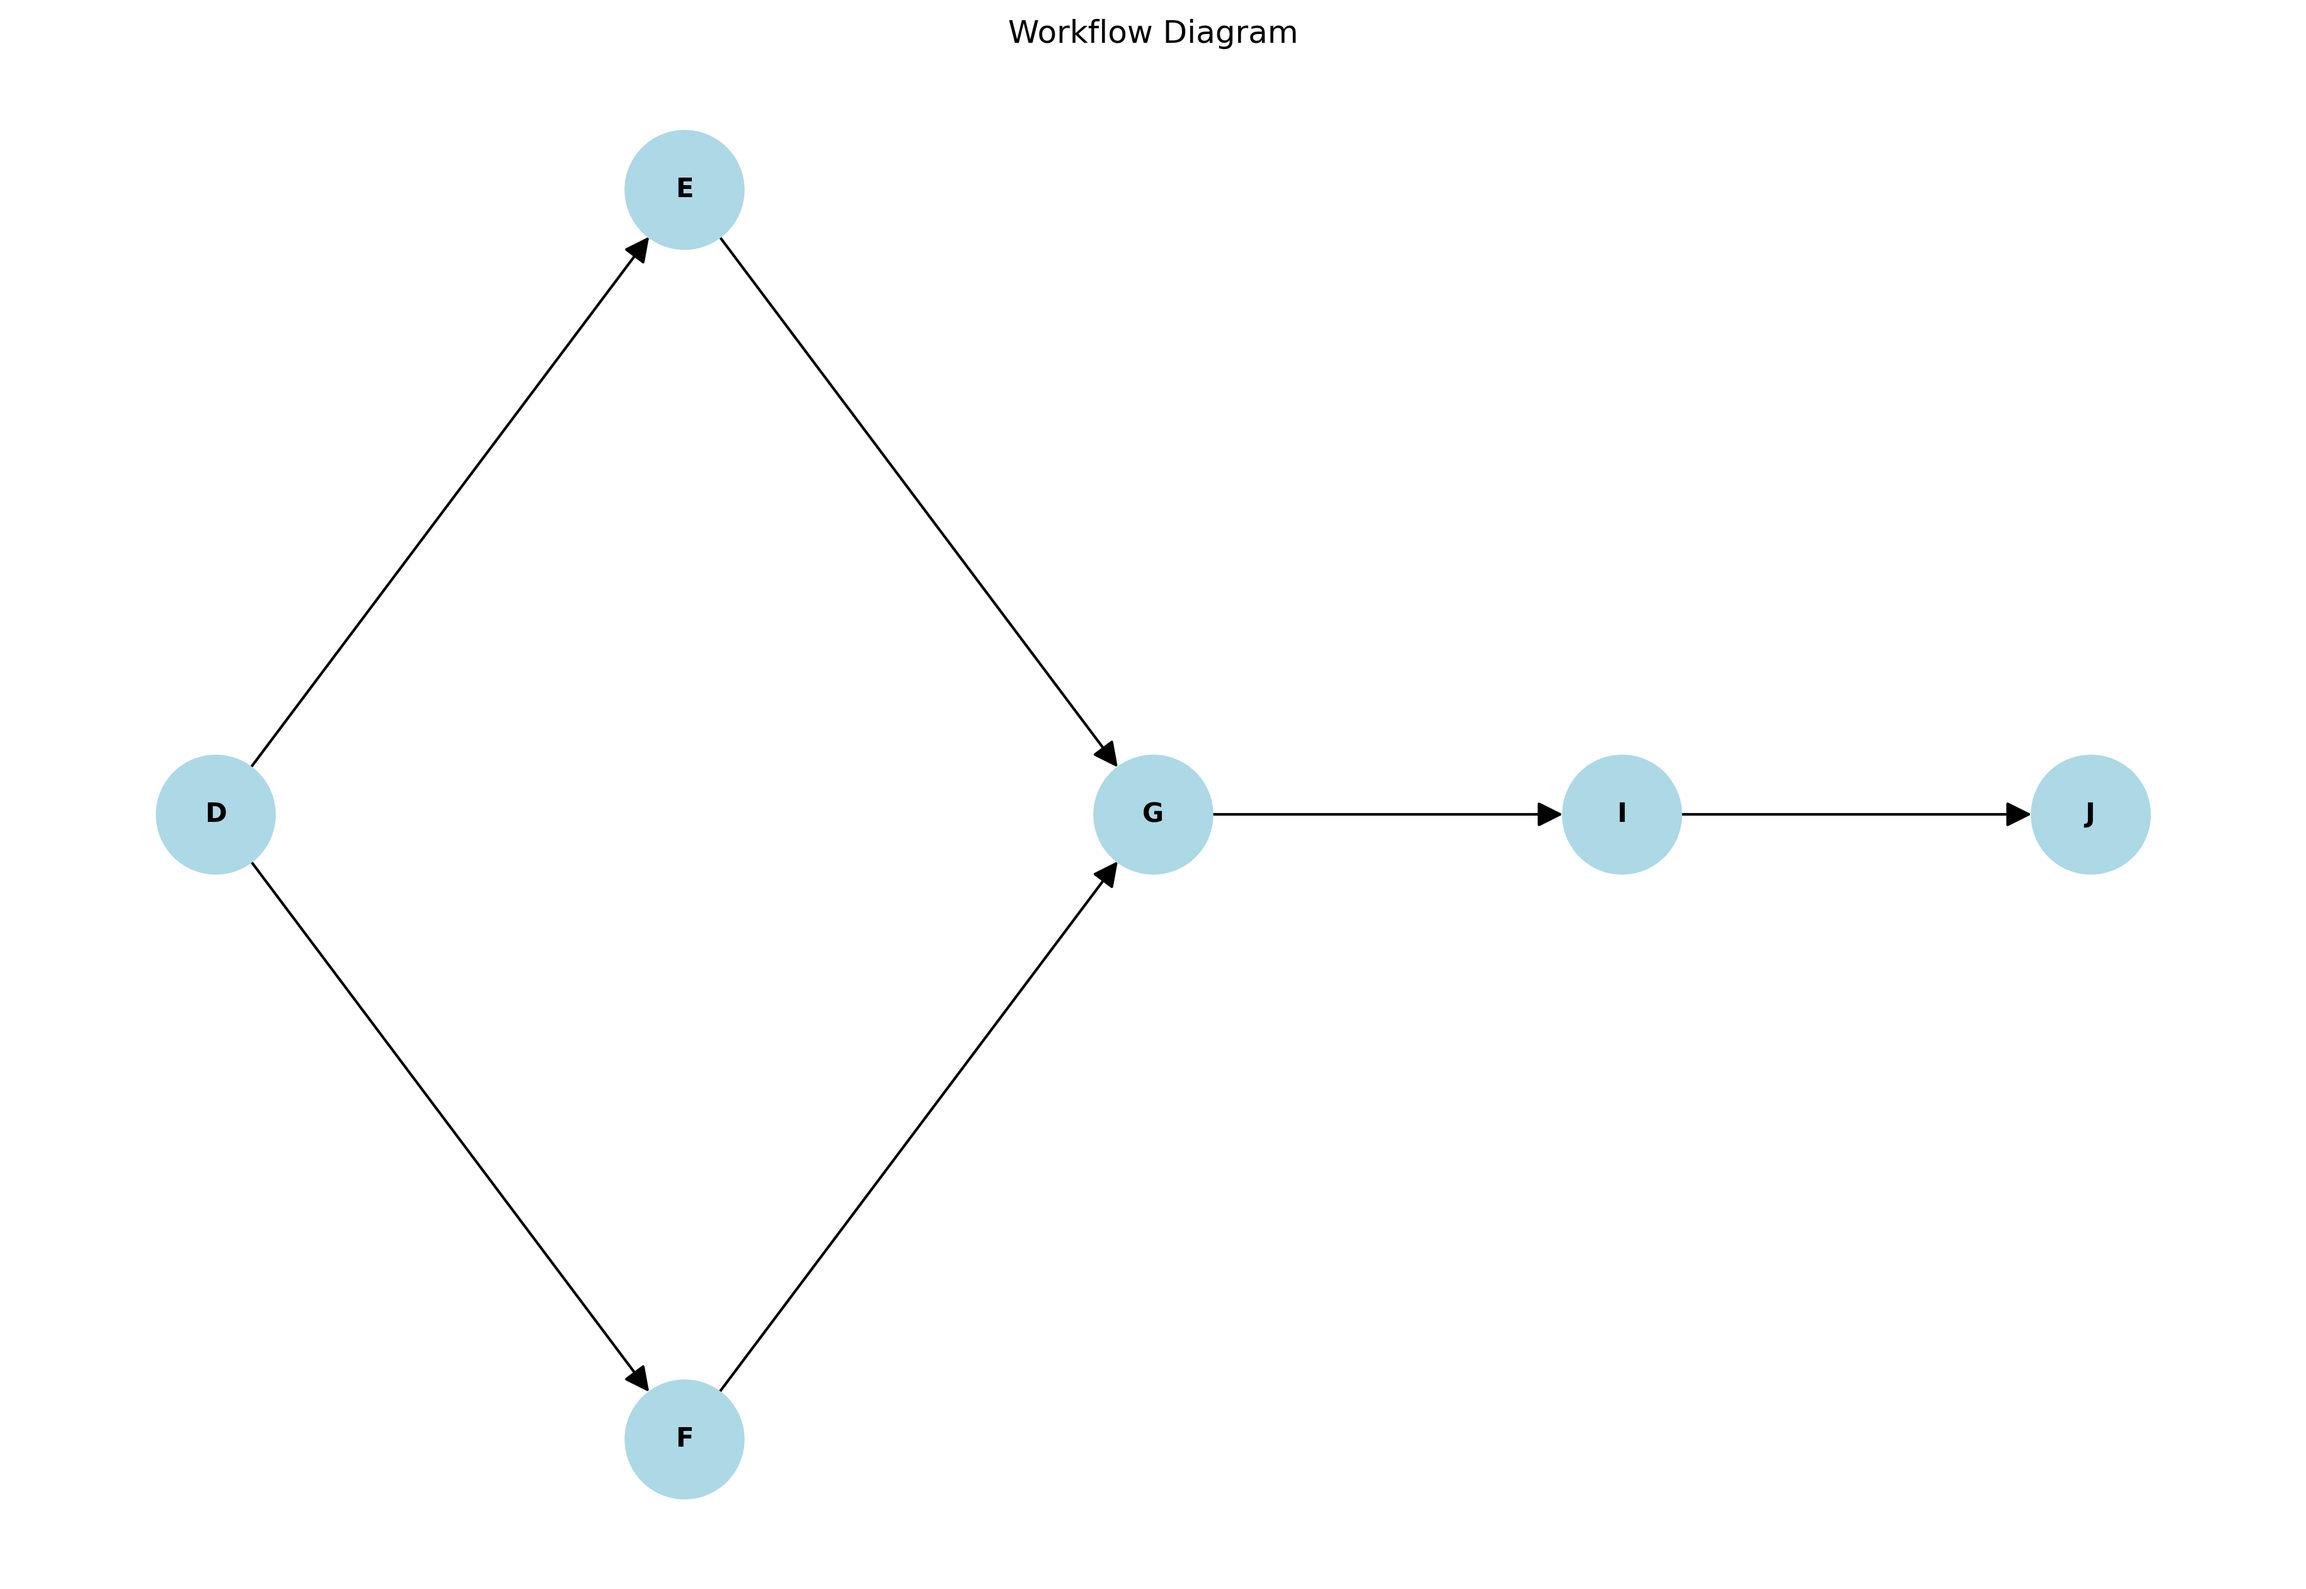
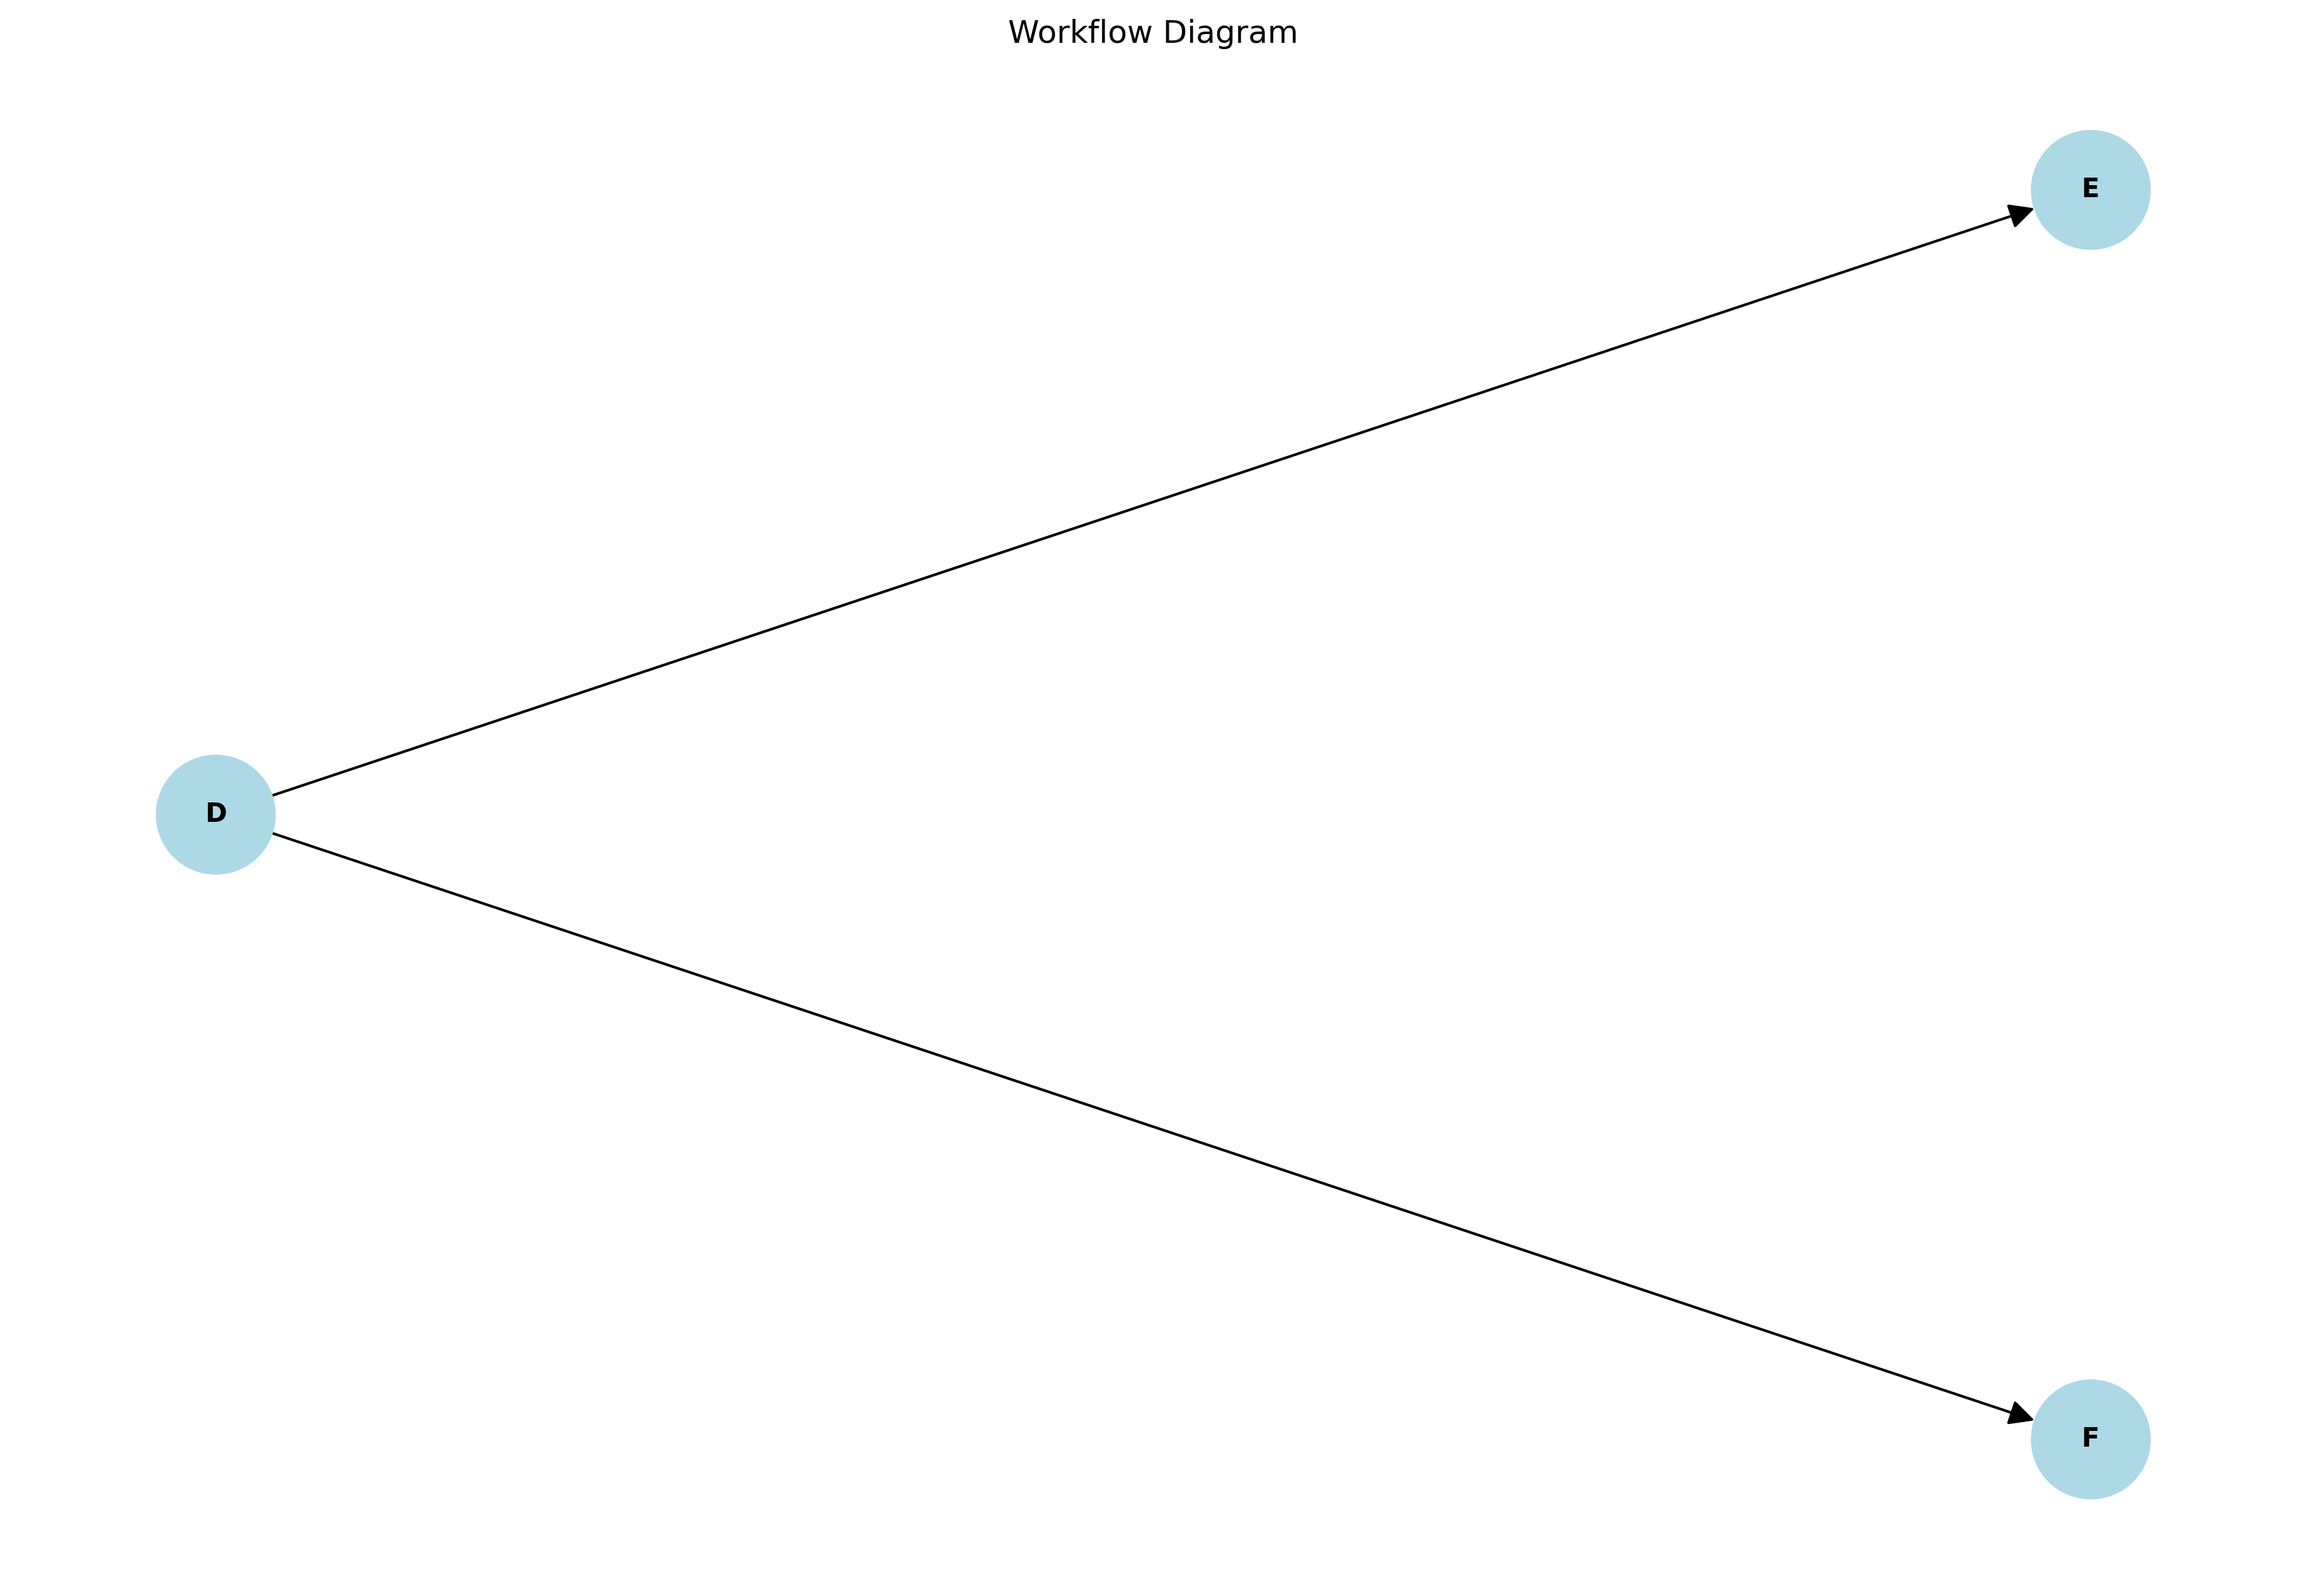
添加返回“斜边变成直角边”的信息

diff --git a/Net_Position.py b/Net_Position.py
@@ -115,7 +115,37 @@ def get_position(key_path, predecessor_dict, adjacency_list, works_l):
                     node) + 1
             }
 
+    # 创建一个新的字典来存储直角边的信息
+    right_angle_edge_info = {}
+    for edge_key, edge in edge_info.items():
+        from_pos = edge['from_pos']
+        to_pos = edge['to_pos']
+        
+        # 计算直角边的中间点
+        mid_x = from_pos[0]
+        mid_y = to_pos[1]
+        
+        # 创建两个新的边：垂直边和水平边
+        vertical_key = f"{edge_key}_vertical"
+        horizontal_key = f"{edge_key}_horizontal"
+        
+        right_angle_edge_info[vertical_key] = {
+            'from_node': edge['from_node'],
+            'to_node': f"{edge['from_node']}_{edge['to_node']}_mid",
+            'from_pos': from_pos,
+            'to_pos': [mid_x, mid_y],
+            'is_key_path': edge['is_key_path']
+        }
+        
+        right_angle_edge_info[horizontal_key] = {
+            'from_node': f"{edge['from_node']}_{edge['to_node']}_mid",
+            'to_node': edge['to_node'],
+            'from_pos': [mid_x, mid_y],
+            'to_pos': to_pos,
+            'is_key_path': edge['is_key_path']
+        }
+
     duration_date = dict()
     for work in works_l:
         duration_date[work[0]] = [work[-2], work[-1]]
-    return position, duration_date, edge_info
+    return position, duration_date, edge_info, right_angle_edge_info

diff --git a/service_1.py b/service_1.py
@@ -46,8 +46,8 @@ async def receive_data(work_data: WorkData):
     print(predecessor_dict)
     key_path = get_key_path(work_l, adjacency_list)
     print(key_path)
-    
-    position, duration_date, edge_info = get_position(
+
+    position, duration_date, edge_info, right_angle_edge_info = get_position(
         key_path,
         predecessor_dict,
         adjacency_list,
@@ -57,6 +57,7 @@ async def receive_data(work_data: WorkData):
     ans['position'] = position
     ans['duration_date'] = duration_date
     ans['edge_info'] = edge_info
+    ans['right_angle_edge_info'] = right_angle_edge_info
 
     return ans
 
@@ -75,7 +76,7 @@ async def create_workflow_diagram():
         print(key_path)
         # key_path = ['D', 'F', 'G', 'I', 'J']
         # 调用 get_position 函数
-        position, duration_date, edge_info = get_position(
+        position, duration_date, edge_info, right_angle_edge_info = get_position(
             key_path,
             predecessor_dict,
             adjacency_list,
@@ -85,6 +86,8 @@ async def create_workflow_diagram():
         ans['position'] = position
         ans['duration_date'] = duration_date
         ans['edge_info'] = edge_info
+        ans['right_angle_edge_info'] = right_angle_edge_info # 它包含了直角边的信息。每个原始的斜边都被分解成两个边：一个垂直边和一个水平边。
+
 
         return ans
     # except Exception as e:
